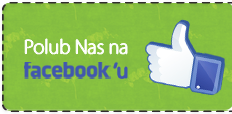
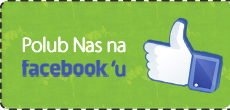
vertical align menu

diff --git a/src/index.html b/src/index.html
@@ -28,43 +28,54 @@
 					<span class="sr-only">Toggle navigation</span>
 					<span class="icon-bar"></span> <span class="icon-bar"></span> <span class="icon-bar"></span>
 				</button>
-				<a class="navbar-brand" href="#">
+				<a class="navbar-toggle" href="index.html">
 					<img id="logo" src="img/logo_m.png" alt="logo" > 
 				</a>
 			</div> <!--navbar-header-->
 			<div class="navbar-collapse collapse">
-				<ul class="nav navbar-nav">
-					<li  id="ikona_menu">
+				<ul class="nav nav-justified">
+					<li>
+						<a  href="index.html">
+							<img id="logo" src="img/logo_m.png" alt="logo" > 
+						</a>
+					</li>
+					<li>  
+						<a  href="index.html">
+							<img  id="ikona"  src="img/gl_home_a.png" alt="glowna strona">
+							</br><b class="act">HOME</b>
+						</a>
+					</li>
+					<li>
 						<a  href="aktualności.html">
 							<img  id="ikona"  src="img/gl_akt.png" alt="aktualności">
 							</br><b>AKTUALNOŚCI</b>
 						</a>
 					</li>
-					<li id="ikona_menu">
+					<li>
 						<a  href="onas.html">
 							<img id="ikona" src="img/gl_onas.png" alt="O nas">
 							</br><b>O NAS</b>
 						</a>
 					</li>
-					<li id="ikona_menu">
+					<li>
 					<a  href="oferta.html">
 							<img id="ikona" src="img/gl_oferta.png" alt="Oferta">
 							</br><b>OFERTA</b> 
 						</a>
 					</li>
-					<li id="ikona_menu">
+					<li>
 						<a  href="galeria.html">
 							<img id="ikona" src="img/gl_gal.png" alt="Galeria">
 							</br> <b>GALERIA</b>
 						</a>
 					</li>
-					<li id="ikona_menu">
+					<li>
 						<a  href="newsletter.html">
 							<img id="ikona" src="img/gl_news.png" alt="Newsletter">
 							</br> <b>NEWSLETTER</b>
 						</a>
 					</li>
-					<li id="ikona_menu">
+					<li>
 						<a  href="kontakt.html">
 							<img id="ikona" src="img/gl_akt.png" alt="Kontakt">
 							</br> <b>KONTAKT</b>
@@ -76,10 +87,10 @@
 	</div><!--role navigation-->
 	<!-- Main jumbotron for a primary marketing message or call to action -->
 	<div class="jumbotron" id="banner"> 
-		<a class="facebook" id="fcb" href="https://www.facebook.com/sparadom?fref=ts">	
-			<img src="img/fcb.png" alt="">
+		<a  id="fcb" href="https://www.facebook.com/sparadom?fref=ts">	
 		</a>
 	</div><!--jumbotron-->
+
 	<div class="container">
 		<div class="row">
 			<div class="col-md-8">

diff --git a/src/css/styl.css b/src/css/styl.css
@@ -17,31 +17,30 @@ footer{
 	background: url("../img/slajd1.png") no-repeat center center;
 	background-size: cover;
 }
-.jumbotron{margin-bottom: 0px;}
-.gray_row{
-background-color: white;
-}
-img#ikona{
-	height: 13px;
-	margin-bottom: 5px;
-}
-img.fot{
+#fcb{
+	background: url("../img/fcb.png") no-repeat center center;
+	background-size: contain;
+	padding: 5% 10%;
 	float: right;
 }
-.act{color: black;}
+.jumbotron{margin-bottom: 0px;}
+
+.gray_row{background-color: white; }
+
+img#ikona{ margin-bottom: 5px; }
+
+img.fot{ float: right; }
+
+b.act{color: black;}
+
 img.eko{
 float: right;
 margin: 10%;
 }
+.nav > li { vertical-align: middle; }
 .nav > li > a { 
-	padding-left: 15%;
-	padding-right: 15%;
-}
-.nav{width: 83%;}
-
-#ikona_menu{
-	text-align: center;
-	padding-top: 5px;
+	white-space: nowrap;
+	padding: 0;
 }
 .navbar-inverse{
 	background: url("../img/tlo.png");
@@ -51,9 +50,9 @@ margin: 10%;
 	padding-top: 5px;
 	padding-left: 0%;
 }
-.navbar-brand img#logo{
+img#logo{ 
+	padding-top: 5px;
 	height: 70px;
-	text-align: center;
 }
 .navbar-header{ height: 70px; }
 
